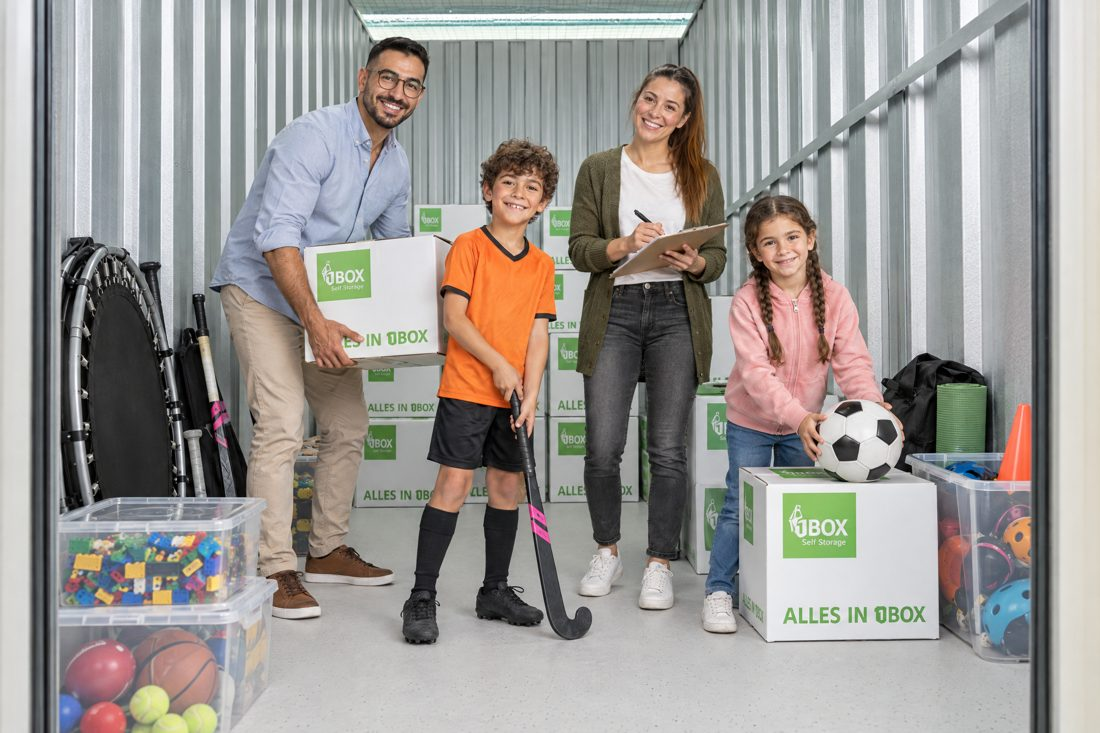
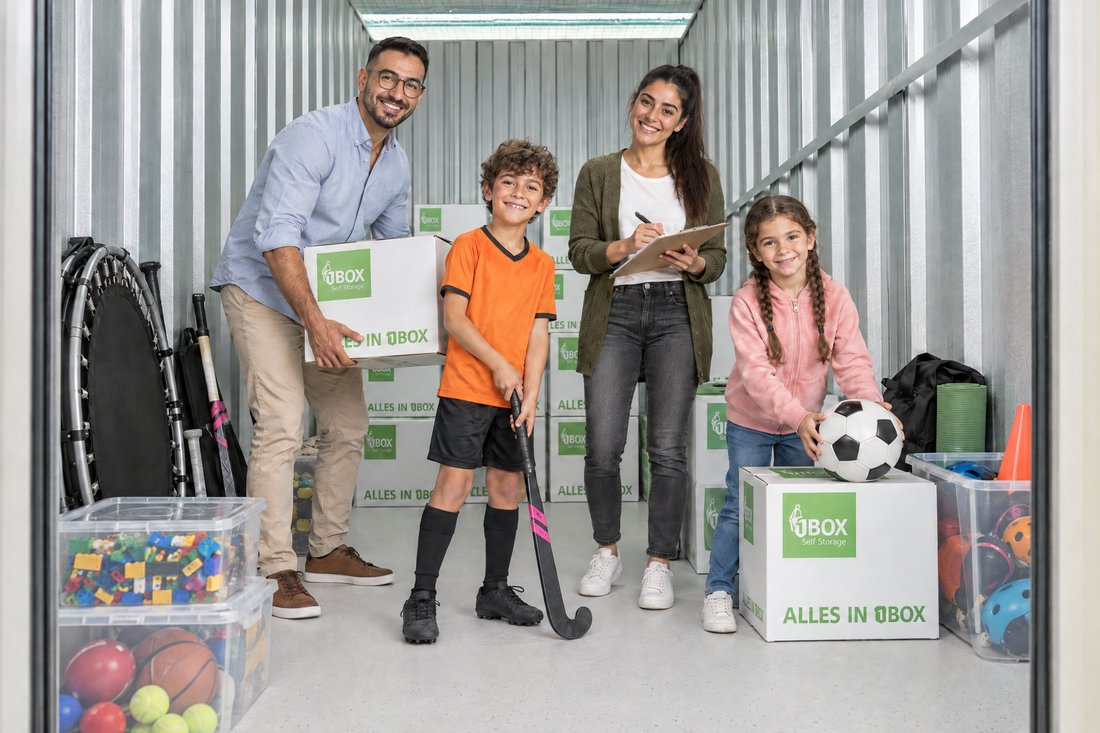
Apply Ryanne's feedback: Shaia, Turkish Lotte, Joshua, football instead of skis, realistic units
- c01 renamed Shaia, look made clearly Surinamese-Hindustani (ref, portrait, 1Box scene)
- c03 mother Lotte now Turkish (ref, portrait, 1Box scene)
- c07 renamed Joshua
- c09 family Lelystad: skis replaced by football gear (ref, portrait, 1Box scene, three home angles, B08)
- B01 desk removed; B03 and B05 at true 10 m2 scale; B04 without suitcases
- Image URLs carry a version so browsers drop the cached old images

diff --git a/public/index.html b/public/index.html
@@ -180,6 +180,7 @@ dialog.lb button{background:rgba(255,255,255,.15);color:#fff;border:0;border-rad
 <dialog class="lb" id="lb"><img id="lb-img" alt=""><div class="cap"><span id="lb-cap"></span><button type="button" id="lb-close">Close</button></div></dialog>
 
 <script>
+const IMGV="20261022";
 const T=(id,file,label,ratio)=>({id,file,label,ratio:ratio||"3:4"});
 const PEOPLE=[
  {id:"emma",staff:true,file:"emma/emma-01",name:"Emma",tag:"Store manager · 1Box staff (existing character)",quote:"Hoi! Ik ben Emma. Kom gerust langs, dan laat ik je de box zien.",set:"B06",
@@ -187,15 +188,15 @@ const PEOPLE=[
   msg:"Warm, practical, never salesy. She is the face of every 1Box set.",
   takes:[T("emma-01","emma/emma-01","Reception, Sep 11"),T("emma-02","emma/emma-02","Corridor, Sep 11"),T("emma-03","emma/emma-03","Inside a unit, Sep 11"),T("emma-04","emma/emma-04","Large unit, Sep 11"),T("emma-05","emma/emma-05","Video still, Sep 27"),T("emma-06","emma/emma-06","At the unit (edit), Sep 27","3:2"),T("emma-07","emma/emma-07","At the unit, boxes (edit), Sep 27","3:2"),T("emma-08","emma/emma-08","Polo match (edit), Sep 28")],
   home:null},
- {id:"c01",file:"c01-portrait",ref:T("c01-ref","ref-01-sanne-shaia","Studio reference","3:4"),name:"Sanne (35)",tag:"Children's clothing webshop · Surinamese-Hindustani roots",quote:"Proud of the webshop, done with living in a warehouse.",set:"B01",needs:["Part-time office manager, runs a kids' clothing webshop started when she became a mother","Two children (4 and 6) at school; ships parcels herself twice a week","Buys in bulk, so the house fills up with stock","With 1Box she keeps only one month of stock at home"],msg:"Warm, organised, down-to-earth, a little rushed."},
+ {id:"c01",file:"c01-portrait",ref:T("c01-ref","ref-01-sanne-shaia","Studio reference","3:4"),name:"Shaia (35)",tag:"Children's clothing webshop · Surinamese-Hindustani roots",quote:"Proud of the webshop, done with living in a warehouse.",set:"B01",needs:["Part-time office manager, runs a kids' clothing webshop started when she became a mother","Two children (4 and 6) at school; ships parcels herself twice a week","Buys in bulk, so the house fills up with stock","With 1Box she keeps only one month of stock at home"],msg:"Warm, organised, down-to-earth, a little rushed."},
  {id:"c02",file:"c02-portrait",ref:T("c02-ref","ref-02-eduardo","Studio reference","3:2"),name:"Eduardo (42)",tag:"Independent handyman · Southern European roots",quote:"Everything dry, safe and within reach. I load only what the job needs.",set:"B02",needs:["Self-employed: custom cabinets, small renovations, repairs","Planned projects, no night call-outs; no employees, one van full of tools","Every job needs different materials","At 1Box he drives up, loads what he needs, leaves the rest safe"],msg:"Reliable, calm, skilled, efficient. 'I've got this under control.'"},
  {id:"c03",file:"c03-portrait",ref:T("c03-ref","ref-03-family-enschede","Studio reference","3:2"),name:"Emre, Lotte, Daan & Noor",tag:"Moving · family from Enschede · Turkish roots",quote:"Mum plans, dad lifts, the kids 'help'.",set:"B05",needs:["Emre (38) accountant, Lotte (36) part-time secretary, Daan (8) and Noor (6) play football and hockey","Moving house; the old house needs to be photographed","Lego, toys, sports gear, a football goal and a trampoline are in the way","All of it goes into a box temporarily"],msg:"Cheerful, a bit chaotic, a typical Dutch family."},
  {id:"c04",file:"c04-portrait",ref:T("c04-ref","ref-04-jesse-fleur-mila","Studio reference","3:2"),name:"Jesse, Fleur & Mila",tag:"Renovating · young couple with a baby",quote:"One room at a time. The crib and the first baby clothes stay with us, just not here.",set:"B03",needs:["Both 30, bought a house that still needs renovating, little money","Already live there, renovate room by room","Belongings of the room being renovated go into storage","Keep Mila's (1) crib and first clothes; no room for them yet"],msg:"Practical, optimistic, a little tired but strong together. Paint on their clothes."},
  {id:"c05",file:"c05-portrait",ref:T("c05-ref","ref-05-henk-marijke","Studio reference","3:2"),name:"Henk & Marijke (65 & 63)",tag:"No storage room · from a large house to an apartment",quote:"We don't want to part with it, but we don't want to live surrounded by it either.",set:"B03",needs:["Beautiful apartment, but no attic or storage space","The crib their children slept in, keepsakes, photo albums","Seasonal items such as Christmas decorations","Enjoying this new stage of life"],msg:"Warm, stylish, sentimental yet practical."},
  {id:"c06",file:"c06-portrait",ref:T("c06-ref","ref-06-lars","Studio reference","3:4"),name:"Lars (22)",tag:"Student · semester abroad",quote:"Sublet the room, keep the stuff. Five months and everything goes straight back.",set:"B04",needs:["From Alkmaar, studies Business Administration in Groningen, student house","Member of a student association, enjoys student life","Semester abroad; sublets his room but won't leave his things there","Rents a unit for 5 months"],msg:"Sociable, relaxed, enjoys life, takes care of his things."},
- {id:"c07",file:"c07-portrait",ref:T("c07-ref","ref-07-jasper","Studio reference","3:4"),name:"Jasper (26)",tag:"Sabbatical · Indo roots",quote:"Six months around the world. My things stay safe, my rent stops.",set:"B07",needs:["Works at a media agency in Amsterdam, 6 months of leave to travel","Sublets his home during the trip","Parents live too far away and have no space","Rents a unit for the duration of the sabbatical"],msg:"Creative, curious, spontaneous but well prepared. Can't wait to leave."},
+ {id:"c07",file:"c07-portrait",ref:T("c07-ref","ref-07-jasper","Studio reference","3:4"),name:"Joshua (26)",tag:"Sabbatical · Indo roots",quote:"Six months around the world. My things stay safe, my rent stops.",set:"B07",needs:["Works at a media agency in Amsterdam, 6 months of leave to travel","Sublets his home during the trip","Parents live too far away and have no space","Rents a unit for the duration of the sabbatical"],msg:"Creative, curious, spontaneous but well prepared. Can't wait to leave."},
  {id:"c08",file:"c08-portrait",ref:T("c08-ref","ref-08-leonie-siblings","Studio reference","3:2"),name:"Leonie (55) and her siblings",tag:"Clearing out the parental home",quote:"Take your time.",set:"B03",needs:["Her mother died a few years ago, now her father too; the family home must be cleared and sold","Still grieving, no headspace to decide; everything has emotional value","Her brother and sister still need to work out what they want","Everything stored safely until there is headspace for it"],msg:"Gentle, calm, caring. Respectful and understated: no humour, no exaggerated emotion, no hospital or funeral imagery."},
- {id:"c09",file:"c09-portrait",ref:T("c09-ref","ref-09-family-lelystad","Studio reference","3:2"),name:"Pieter, Chantal, Jaylen & Imani",tag:"Seasonal items · family from Lelystad · Surinamese-Creole roots",quote:"Room to live at home, and the skis within reach when it snows.",set:"B08",needs:["Lovely terraced house in Lelystad; storage already fairly full","The attic became a home office: no room for skis, Christmas tree, camping gear","Rents a unit so they can always get to their things","Pieter (42), Chantal (40), Jaylen (10), Imani (7)"],msg:"Active, warm, well-organised. Loves winter sports, Christmas and summer camping."},
+ {id:"c09",file:"c09-portrait",ref:T("c09-ref","ref-09-family-lelystad","Studio reference","3:2"),name:"Pieter, Chantal, Jaylen & Imani",tag:"Seasonal items · family from Lelystad · Surinamese-Creole roots",quote:"Room to live at home, and the football gear within reach every weekend.",set:"B08",needs:["Lovely terraced house in Lelystad; storage already fairly full","The attic became a home office: no room for the football gear, Christmas tree, camping gear","Rents a unit so they can always get to their things","Pieter (42), Chantal (40), Jaylen (10), Imani (7)"],msg:"Active, warm, well-organised. Loves winter sports, Christmas and summer camping."},
  {id:"c10",file:"c10-portrait",ref:T("c10-ref","ref-10-eline","Studio reference","3:2"),name:"Eline (46)",tag:"Seasonal bike · road cyclist",quote:"Grab the bike the moment the sun comes out.",set:"B07",needs:["Keen road cyclist, lives on the third floor in Amsterdam","Rides every weekend April to September, cycling holidays","No room in the shared hallway, carrying it upstairs is not an option, the street is not safe","Rents a box for the bike and all the accessories"],msg:"Energetic, driven, adventurous. Lives for the weekend ride."}
 ];
 PEOPLE.forEach(p=>{ if(p.staff) return;
@@ -204,23 +205,23 @@ PEOPLE.forEach(p=>{ if(p.staff) return;
   p.homes=[p.home,T(p.id+"-home-2",p.id+"-home-2","Home \u00b7 reverse angle","3:2"),T(p.id+"-home-3",p.id+"-home-3","Home \u00b7 wide, from the door","3:2"),T(p.id+"-home-4",p.id+"-home-4","Home \u00b7 detail","3:2")];
 });
 const SETS=[
- {id:"B01",file:"B01v2-unit-3m2-webshop-stock",name:"Unit 3 m² · webshop stock",for:"Sanne",ref:"Barendrecht 0091 (3 m²) · v2, no shelves"},
+ {id:"B01",file:"B01v2-unit-3m2-webshop-stock",name:"Unit 3 m² · webshop stock",for:"Shaia",ref:"Barendrecht 0091 (3 m²) · v3, no shelves, no desk"},
  {id:"B02",file:"B02v2-unit-7m2-handyman-tools",name:"Unit 7 m² · handyman tools",for:"Eduardo",ref:"Barendrecht 0047 (7 m²) · v2, nothing on walls"},
  {id:"B03",file:"B03-unit-10m2-one-room-longterm",name:"Unit 10 m² · one room, long term",for:"Jesse & Fleur, Henk & Marijke, Leonie",ref:"Barendrecht 0034 (10 m²)"},
- {id:"B04",file:"B04-unit-2m2-abroad-suitcases",name:"Unit 2 m² · suitcases, a year abroad",for:"Lars",ref:"Barendrecht 0085 (2 m²)"},
- {id:"B05",file:"B05-unit-10m2-full-household-renovation",name:"Unit 10 m² · whole household",for:"family Enschede",ref:"Barendrecht 0035 (10 m²)"},
+ {id:"B04",file:"B04-unit-2m2-abroad-suitcases",name:"Unit 2 m² · what stays behind while abroad",for:"Lars",ref:"Barendrecht 0085 (2 m²)"},
+ {id:"B05",file:"B05-unit-10m2-full-household-renovation",name:"Unit 10 m² · toys, sports gear, trampoline",for:"family Enschede",ref:"Barendrecht 0035 (10 m²)"},
  {id:"B06",file:"B06-reception-welkom",name:"Reception · WELKOM desk",for:"Emma, everyone",ref:"Amsterdam office photo + box set"},
- {id:"B07",file:"B07-corridor-open-unit-trolley",name:"Corridor · open unit, trolley",for:"Jasper, Eline, everyone",ref:"Barendrecht 0131 + unit 1504"},
- {id:"B08",file:"B08-unit-3m2-seasonal-ski-christmas",name:"Unit 3 m² · ski gear & Christmas",for:"family Lelystad",ref:"Barendrecht 0092 (3 m²)"}
+ {id:"B07",file:"B07-corridor-open-unit-trolley",name:"Corridor · open unit, trolley",for:"Joshua, Eline, everyone",ref:"Barendrecht 0131 + unit 1504"},
+ {id:"B08",file:"B08-unit-3m2-seasonal-ski-christmas",name:"Unit 3 m² · football gear, Christmas, camping",for:"family Lelystad",ref:"Barendrecht 0092 (3 m²)"}
 ];
 const DEFAULT_ITEMS=[
  {id:"i01",name:"1Box moving box (white & green), single",for:"all"},{id:"i02",name:"Stack of three 1Box boxes",for:"all"},
  {id:"i03",name:"Flat trolley with two 1Box boxes",for:"corridor, Alex, Dekker"},{id:"i04",name:"Padlock and access code card",for:"Ronnie, security message"},
- {id:"i05",name:"Toolbox, compressor, circular saw",for:"Eduardo"},{id:"i06",name:"Pair of skis + ski boots",for:"family Lelystad"},
+ {id:"i05",name:"Toolbox, compressor, circular saw",for:"Eduardo"},{id:"i06",name:"Footballs, folding goal + football boots",for:"family Lelystad"},
  {id:"i07",name:"Boxed artificial Christmas tree + bauble bin",for:"family Lelystad"},{id:"i08",name:"White wooden crib, disassembled",for:"Lisa & Tom, Marjolein & Peter"},
  {id:"i09",name:"Stack of photo albums and scrapbooks",for:"Marjolein & Peter, Marieke, Rob"},{id:"i10",name:"Two large suitcases + travel backpack",for:"Julia, Alex"},
  {id:"i11",name:"House keys with tag + rolled floor plans",for:"Dekker family"},{id:"i12",name:"Two sofas side by side",for:"Tim & Nora"},
- {id:"i13",name:"Shipping container (20 ft) at a loading bay",for:"Alex"},{id:"i14",name:"Linen cushions and ceramic vases in a shipping box",for:"Sanne"}
+ {id:"i13",name:"Shipping container (20 ft) at a loading bay",for:"Alex"},{id:"i14",name:"Linen cushions and ceramic vases in a shipping box",for:"Shaia"}
 ];
 const CREDITS=1600+20*155+40*160;
 const STATUSES=[["approved","Approved"],["adjust","Adjust"],["redo","Redo"]];
@@ -236,13 +237,13 @@ function reviewBlock(id){return `<div class="chips" role="group" aria-label="Sta
 function assetCard(a,title,sub){
   const land=a.ratio==="3:2";
   return `<article class="card${land?" land":""}" data-id="${a.id}" data-status="pending"><div class="stripe"></div>
-   <figure data-src="img/${a.file}.jpg" data-cap="${esc(title)}"><img src="img/${a.file}.jpg" alt="${esc(title)}" loading="lazy" onerror="this.closest('figure').classList.add('missing');this.alt='not generated yet';this.removeAttribute('src')"></figure>
+   <figure data-src="img/${a.file}.jpg?v=${IMGV}" data-cap="${esc(title)}"><img src="img/${a.file}.jpg?v=${IMGV}" alt="${esc(title)}" loading="lazy" onerror="this.closest('figure').classList.add('missing');this.alt='not generated yet';this.removeAttribute('src')"></figure>
    <div class="body"><div><h3>${esc(title)}</h3>${sub?`<div class="tag">${esc(sub)}</div>`:""}</div>${reviewBlock(a.id)}</div></article>`;
 }
 function personaCard(p){
   const n=(p.takes?p.takes.length:0)+(p.homes?p.homes.length:0);
   return `<article class="card" data-id="${p.id}" data-status="pending"><div class="stripe"></div>
-   <figure data-open="${p.id}" style="cursor:pointer"><img src="img/${p.file}.jpg" alt="${esc(p.name)}" loading="lazy"><span class="n">${n} images</span></figure>
+   <figure data-open="${p.id}" style="cursor:pointer"><img src="img/${p.file}.jpg?v=${IMGV}" alt="${esc(p.name)}" loading="lazy"><span class="n">${n} images</span></figure>
    <div class="body"><div><h3><a href="#${p.id}">${esc(p.name)}</a></h3><div class="tag">${esc(p.tag)}</div></div>
     <q>${esc(p.quote)}</q>
     <div class="meta"><span>Set: ${p.set}</span></div>
@@ -261,7 +262,7 @@ function renderDetail(id){
    <div class="crumb"><a href="#personas">← Board</a><span style="color:var(--muted)">/</span><span>${esc(p.name)}</span>
      <span class="nav"><a class="btn ghost" href="#${prev.id}">← ${esc(prev.name.split(" (")[0])}</a><a class="btn ghost" href="#${next.id}">${esc(next.name.split(" (")[0])} →</a></span></div>
    <div class="hero">
-    <figure data-src="img/${p.file}.jpg" data-cap="${esc(p.name)}"><img src="img/${p.file}.jpg" alt="${esc(p.name)}"></figure>
+    <figure data-src="img/${p.file}.jpg?v=${IMGV}" data-cap="${esc(p.name)}"><img src="img/${p.file}.jpg?v=${IMGV}" alt="${esc(p.name)}"></figure>
     <div><div class="eyebrow">${p.staff?"Staff":"Customer persona"}</div><h2>${esc(p.name)}</h2><div class="tag">${esc(p.tag)}</div>
      <q>${esc(p.quote)}</q>
      <div class="cols"><div><h4>${p.staff?"Facts":"Story"}</h4><ul>${p.needs.map(n=>`<li>${esc(n)}</li>`).join("")}</ul></div><div><h4>Personality & tone</h4><div class="msg">${esc(p.msg)}</div></div></div>
